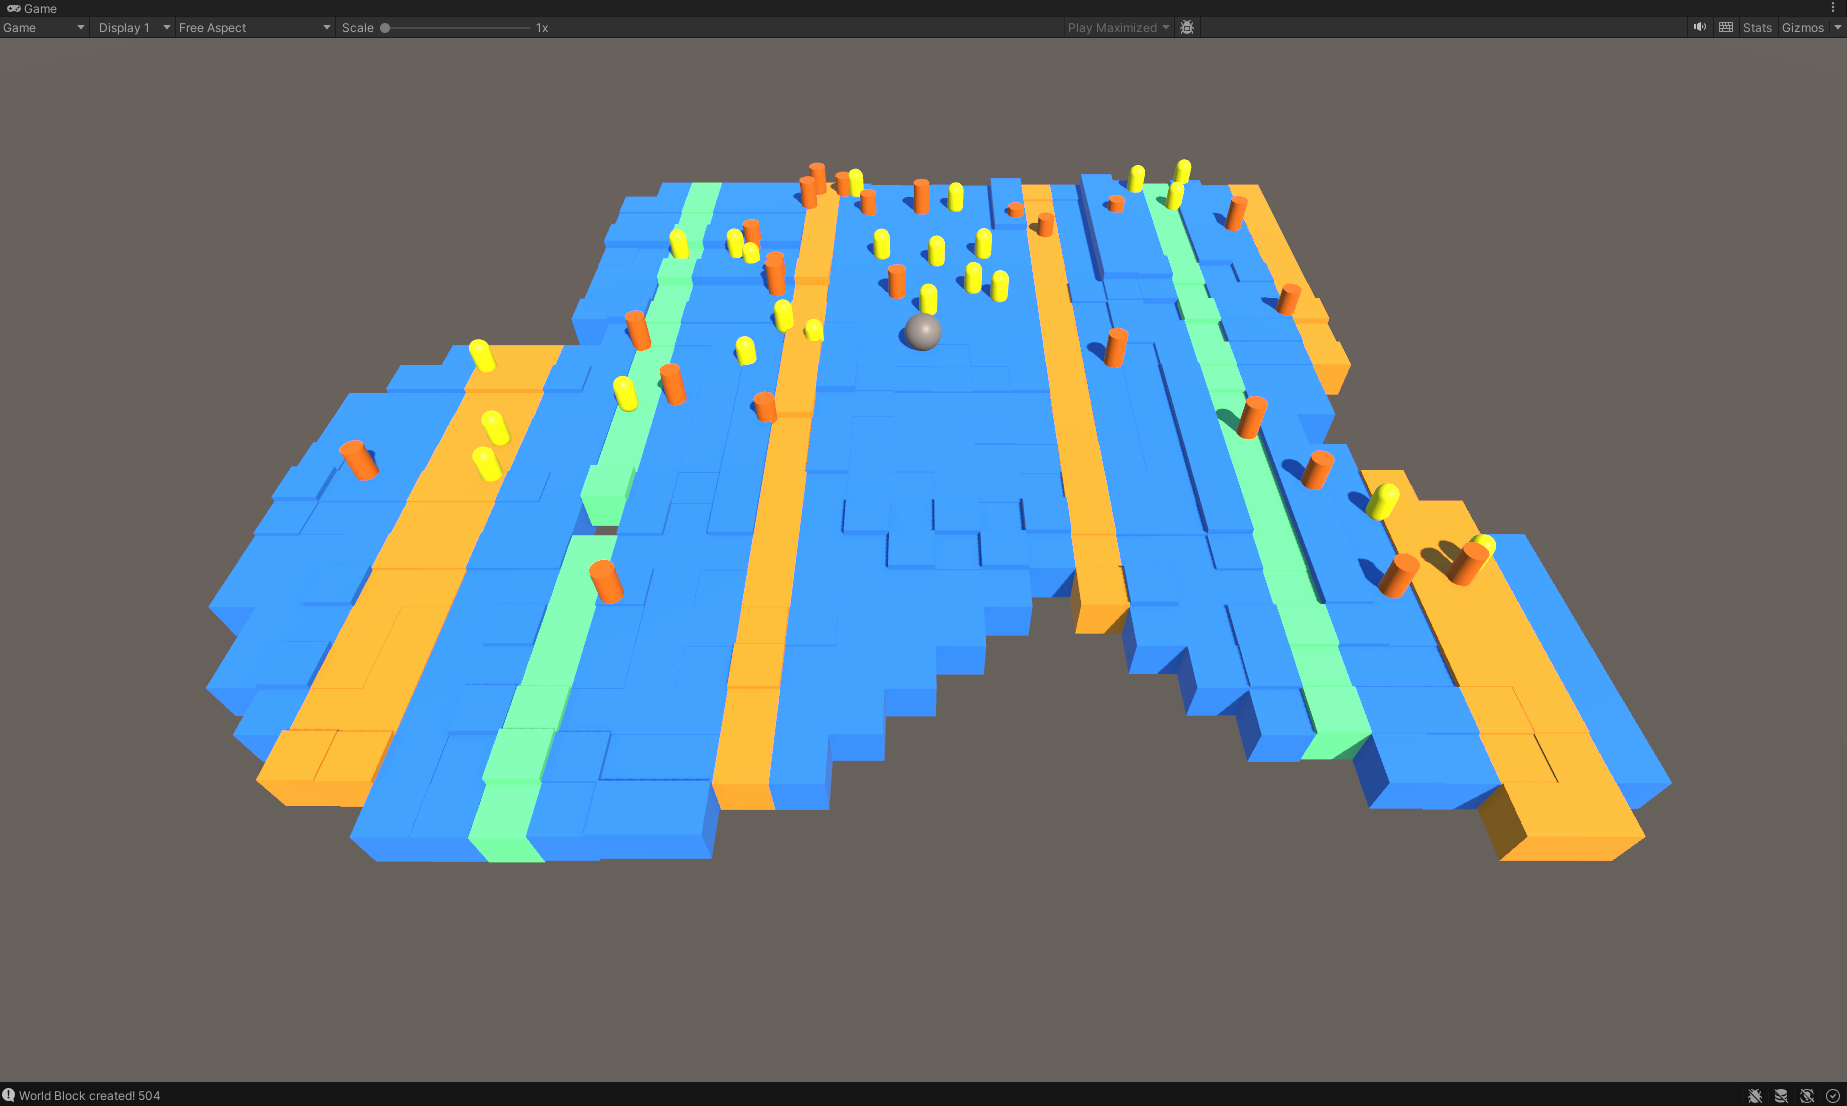
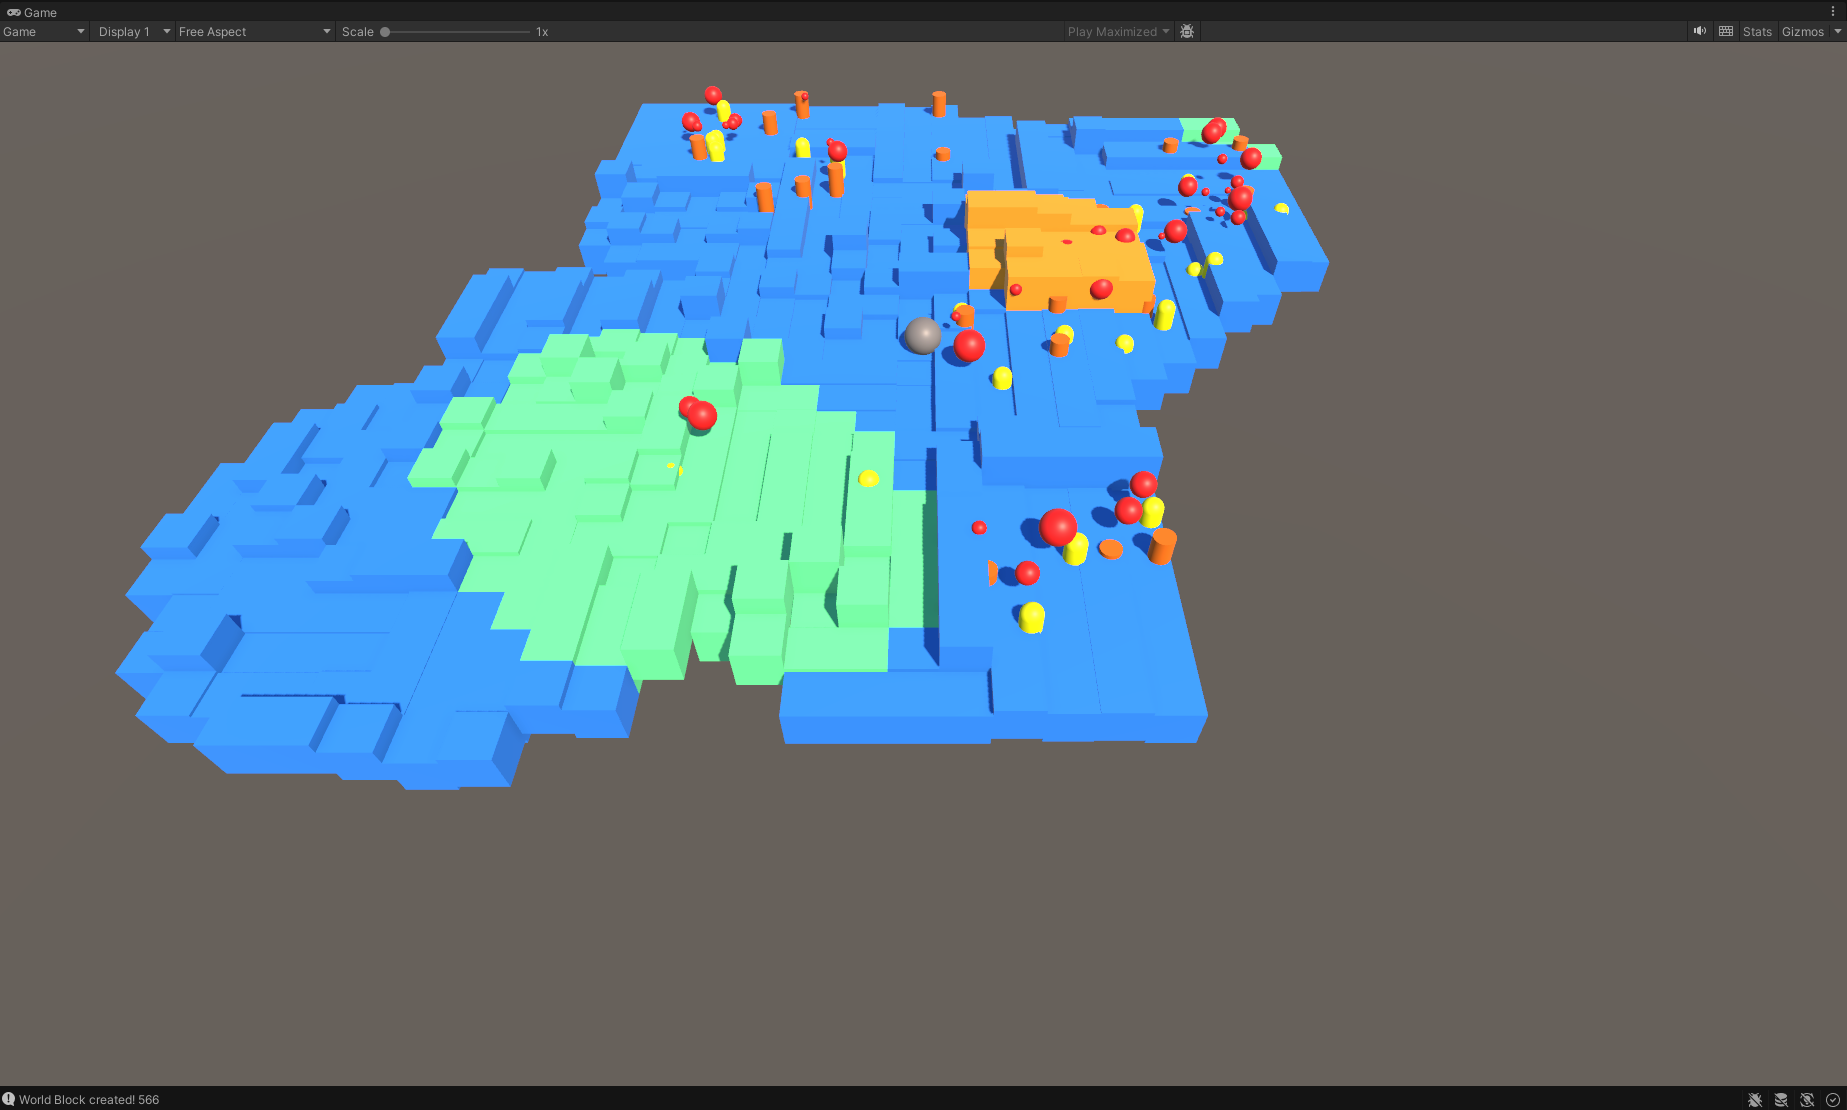
fixing noise for tiling

Changed region(s): [[0.0, 0.0, 1.0, 0.7993]]

diff --git a/Unity/TilingGame/Assets/Scripts/Tiling.cs b/Unity/TilingGame/Assets/Scripts/Tiling.cs
@@ -145,15 +145,18 @@ public class Tiling : MonoBehaviour
                     if (PlayerToWorldBlock.magnitude < maxDistFromPlayerWorldBlockSpawn)
                     {
                         float noise = Mathf.PerlinNoise(
-                            WorldBlockCo.x*worldBlockVariation+worldBlockJitter, 
-                            WorldBlockCo.y*worldBlockVariation+worldBlockJitter*2.0f);
+                            (WorldBlockCo.x+0.5f)*worldBlockVariation+worldBlockJitter, 
+                            (WorldBlockCo.z+0.5f)*worldBlockVariation+worldBlockJitter);
                         float tresh = worldBlockSpawnTreshDelta;
                         for (int cIdx = 0; cIdx < nWorldBlocks; cIdx++)
                         {
+                            Debug.Log("Noise: " + noise + " tresh: " + tresh + " treshDelta: " + worldBlockSpawnTreshDelta);
                             if (noise > tresh - worldBlockSpawnTreshDelta && noise < tresh)
                             {
                                 WorldBlockCo.y = -3.0f;
                                 GameObject worldBlockInst = Instantiate(WorldBlocks[cIdx], WorldBlockCo, Quaternion.identity);
+                                //Renderer instRenderer = worldBlockInst.GetComponent<Renderer>();
+                                //instRenderer.material.SetColor("_Color", Color.red);
                                 nWorldBlocksBuiltDebug++;
                                 Debug.Log("World Block created! " + nWorldBlocksBuiltDebug);
                                 existingWorldBlockCoordinates[new Vector2Int(i, j)] = worldBlockInst.name;

diff --git a/README.md b/README.md
@@ -10,16 +10,13 @@ Player by moving builds the map.
 ![](RepoResources/2.png)
 ![](RepoResources/3.png)
 ![](RepoResources/4.png)
-![](RepoResources/5.png)
-![](RepoResources/6.png)
 
 ### TODOs
 
+* Player movement responding to World Blocks collisions
+* Player movement responding to World props collisions
 * Correct positioning of blocks, props and popups.
 * Track all popups (now only last one is tracked)
 * Taller and lower world blocks
-* Player movement responding to World Blocks collisions
-* Player movement responding to World props collisions
 * Secondary animation while world blocks and props are built
 * Better world blocks and world prop models (Blender and Houdini low poly)
-* Enhancing usage of noise
